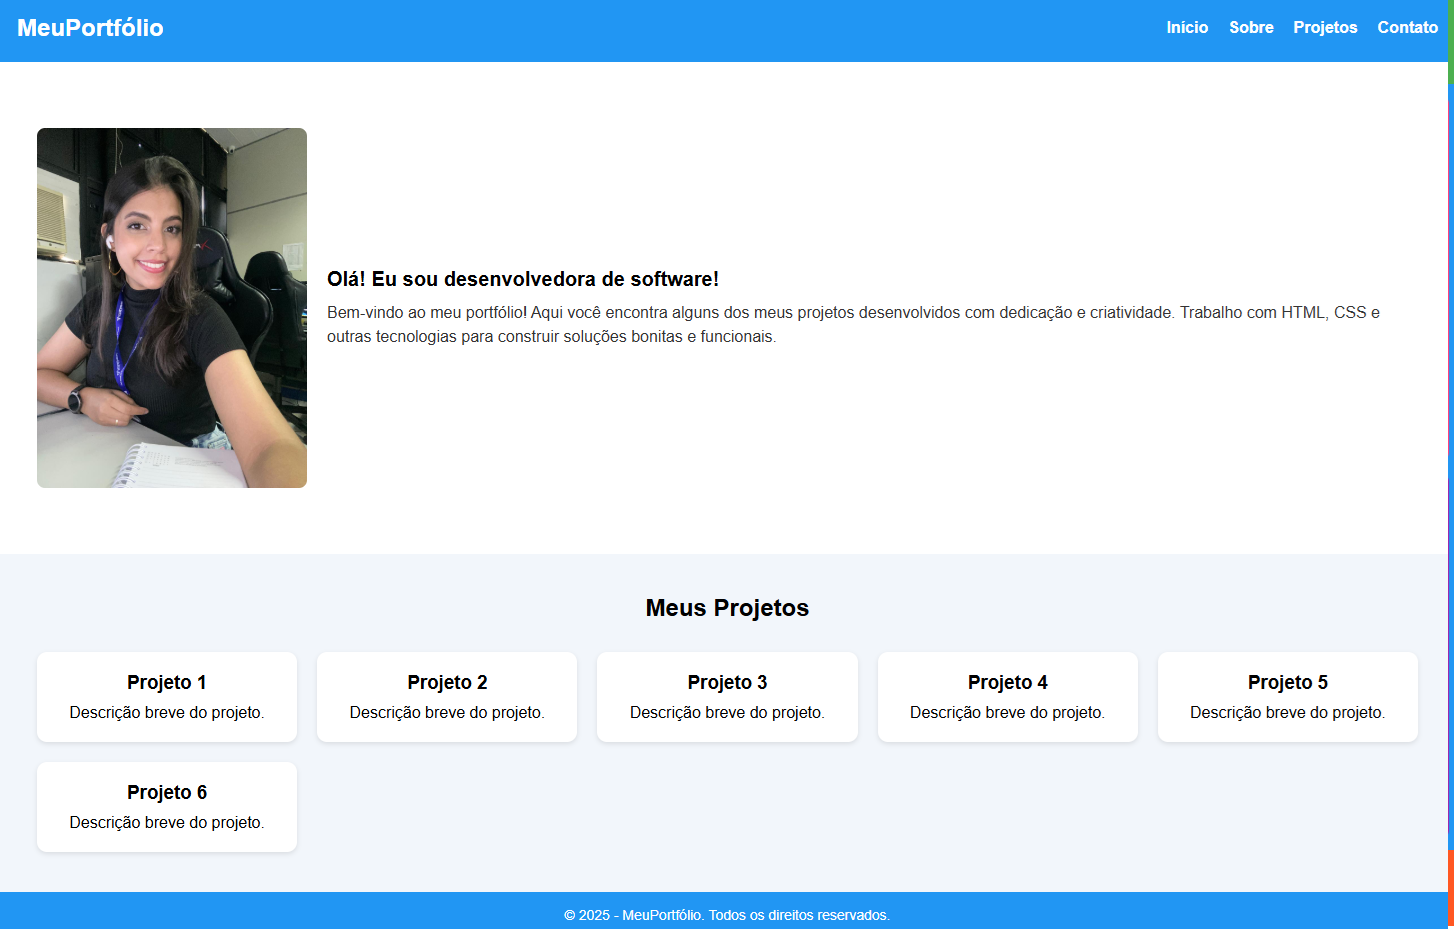
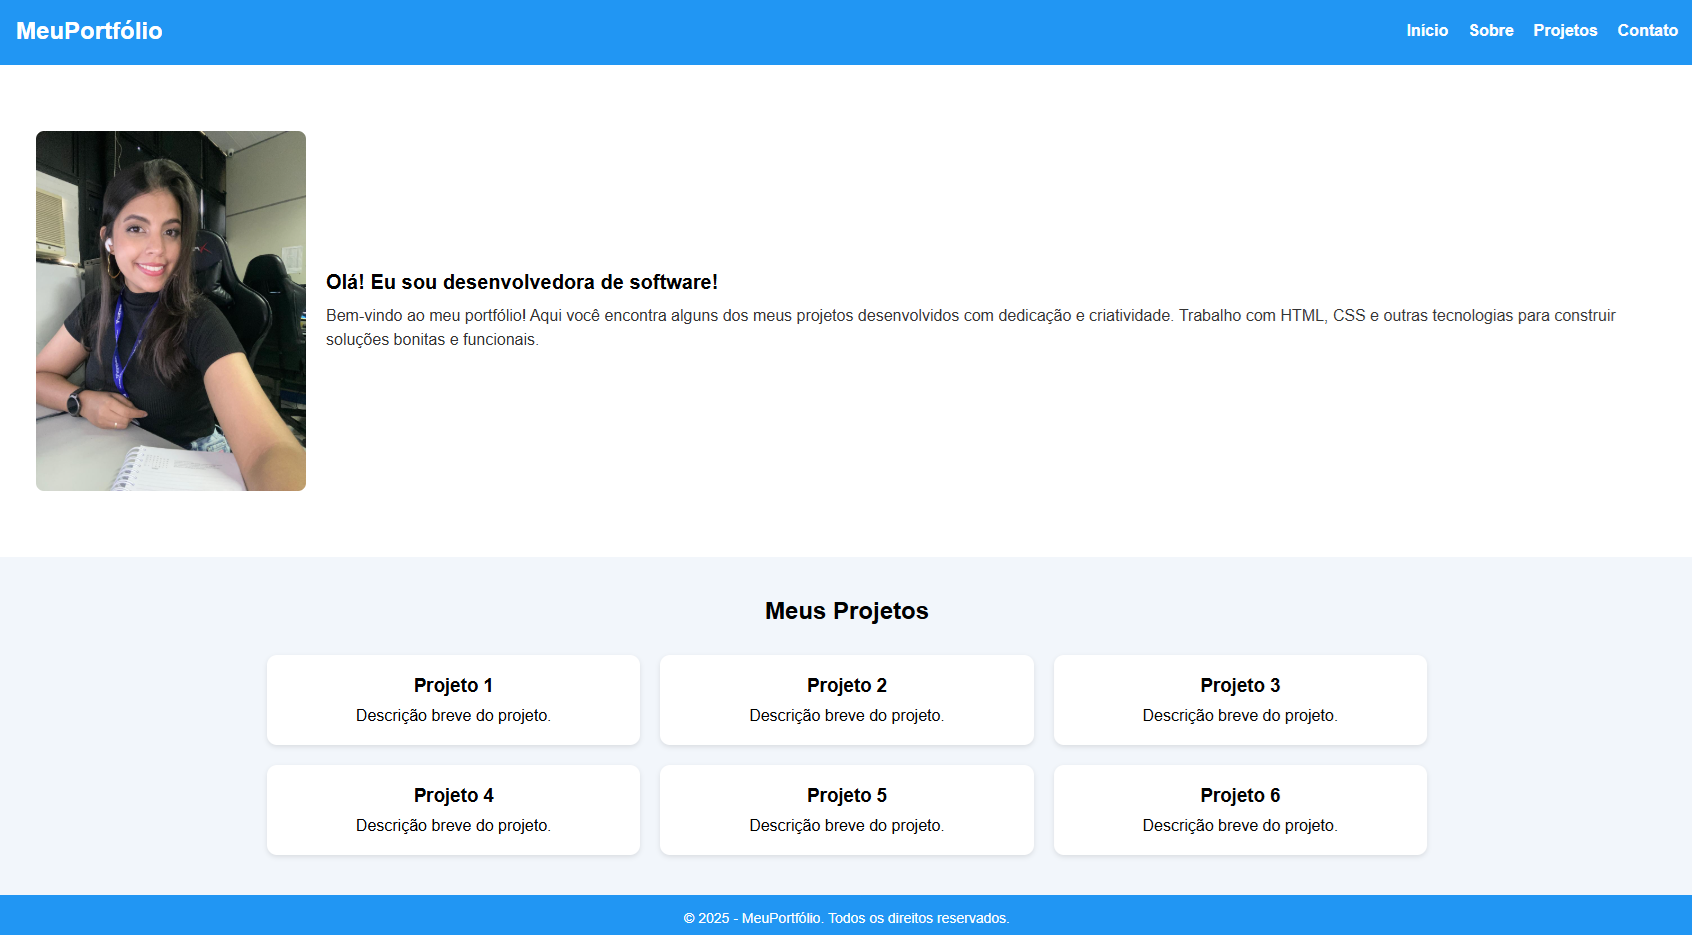
Ajustando media querie questão 3

diff --git a/DW/ATV3/Questão_3/assets/css/styles.css b/DW/ATV3/Questão_3/assets/css/styles.css
@@ -73,9 +73,11 @@ nav a {
 
 .galeria {
   display: grid;
-  grid-template-columns: repeat(auto-fit, minmax(250px, 1fr));
+  grid-template-columns: repeat(3, 1fr);
   gap: 20px;
   padding: 0 20px;
+  max-width: 1200px;
+  margin: 0 auto;
 }
 
 .card {
@@ -97,6 +99,12 @@ footer {
   font-size: 14px;
 }
 
+@media (max-width: 900px) {
+  .galeria {
+    grid-template-columns: repeat(2, 1fr);
+  }
+}
+
 @media (max-width: 600px) {
   .sobre {
     grid-template-columns: 1fr;
@@ -105,6 +113,10 @@ footer {
 
   .sobre img {
     justify-self: center;
+  }
+
+   .galeria {
+    grid-template-columns: 1fr;
   }
 }
 
